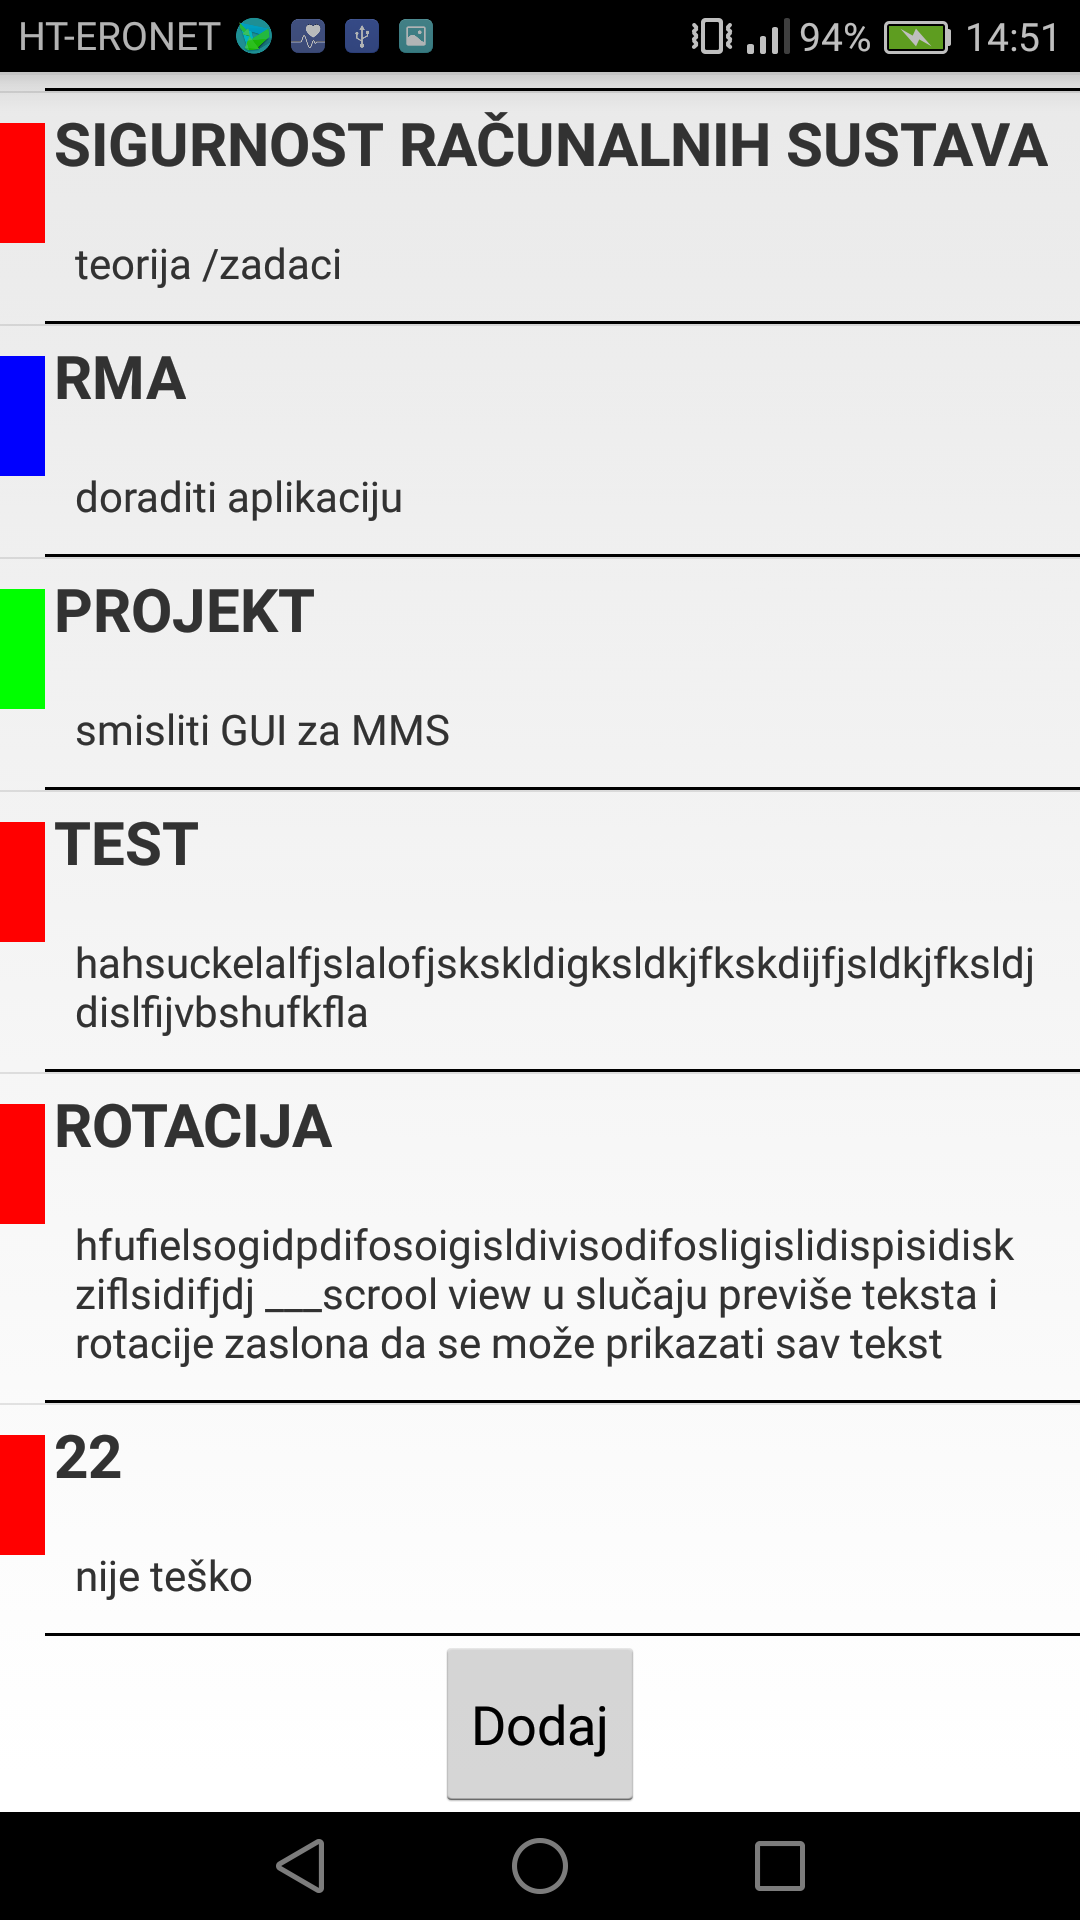
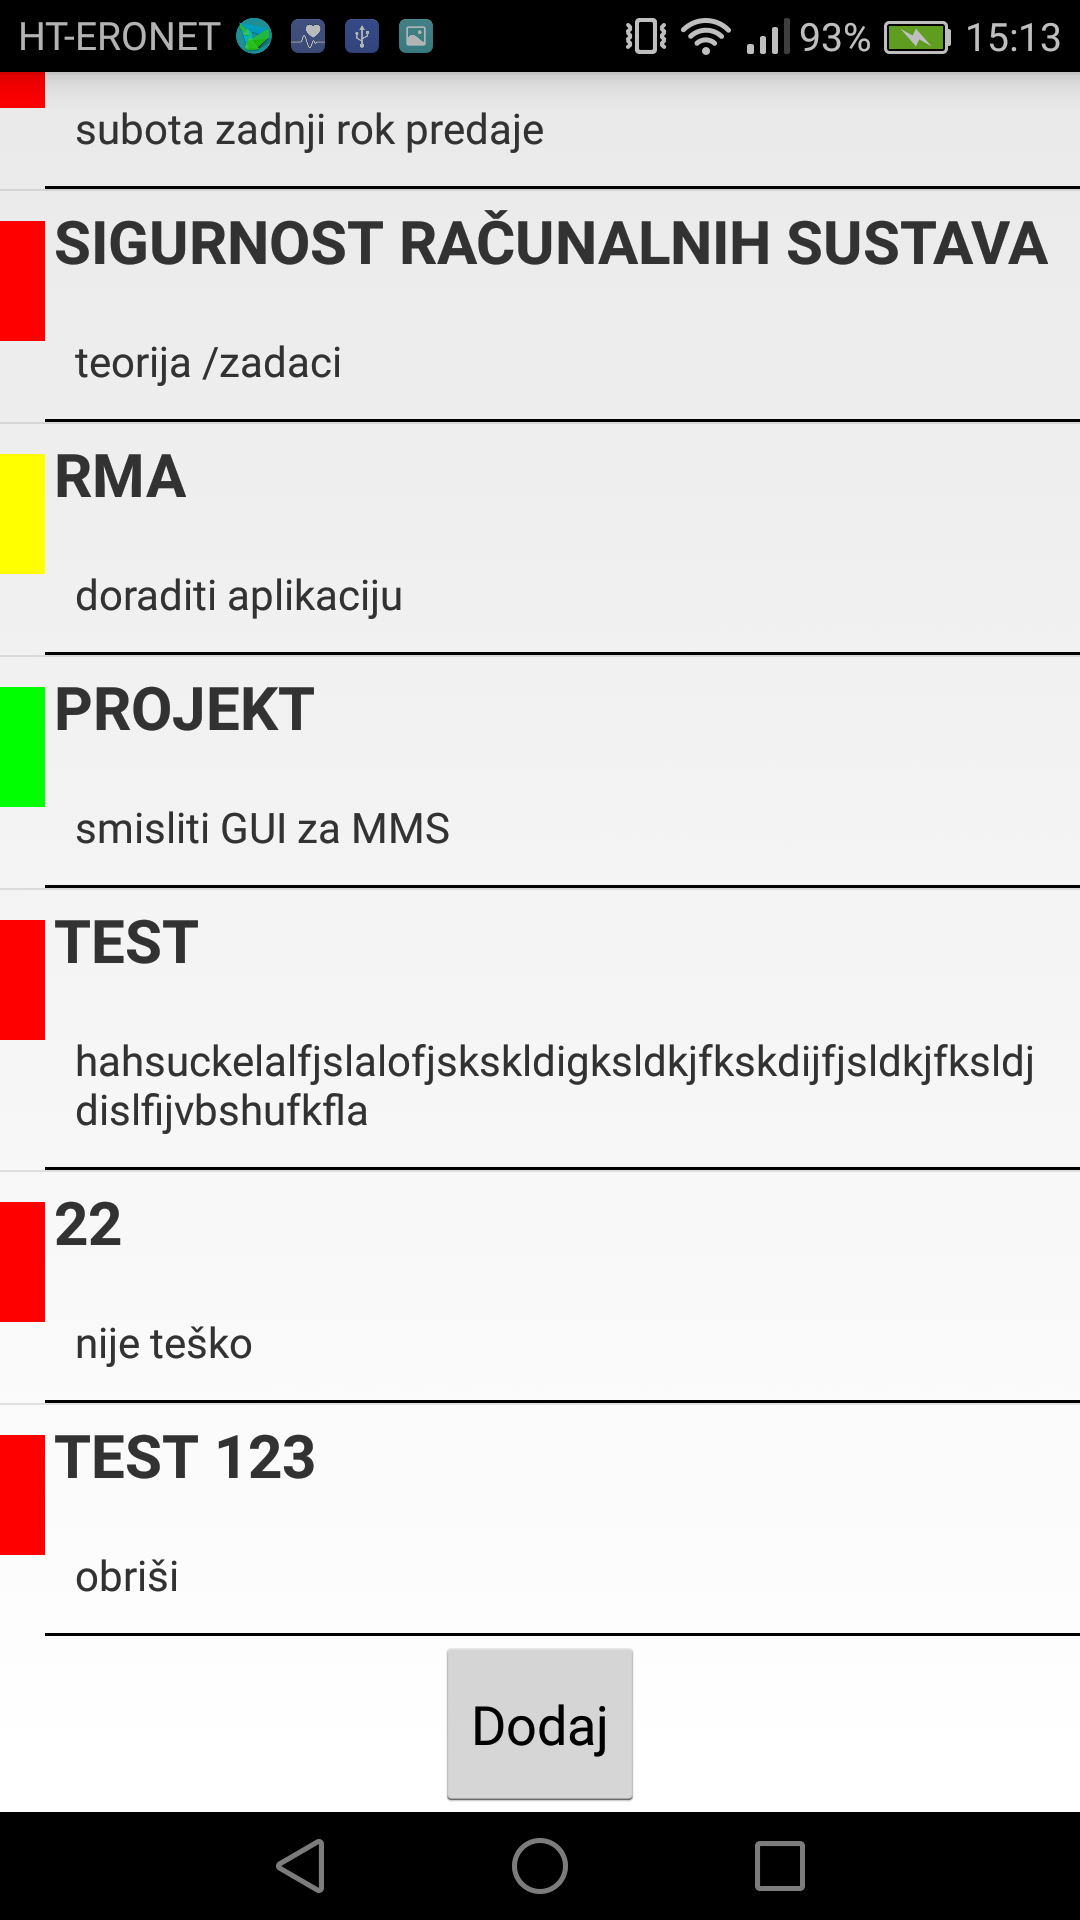
Sitneprepravke.konacnaVerzija

diff --git a/DZ3/app/src/main/java/com/example/daniel/dz3/MainActivity.java b/DZ3/app/src/main/java/com/example/daniel/dz3/MainActivity.java
@@ -13,7 +13,7 @@ import java.util.ArrayList;
 
 public class MainActivity extends Activity implements View.OnClickListener {
     ListView lvTaskList;
-    TaskAdapter mTaskAdapter;
+    TaskAdapter TaskAdapter;
     Button bDodajZadatak;
     public static final String KEY_NASLOV = "KeyTittle";
     public static final String KEY_OPIS = "KeyDescription";
@@ -31,13 +31,13 @@ public class MainActivity extends Activity implements View.OnClickListener {
     private void setUpUI() {
         bDodajZadatak = (Button) findViewById(R.id.bDodajZadatak);
         this.lvTaskList = (ListView) this.findViewById(R.id.lvTaskList);
-        this.mTaskAdapter = new TaskAdapter(this.loadTasks());
-        this.lvTaskList.setAdapter(this.mTaskAdapter);
+        this.TaskAdapter = new TaskAdapter(this.loadTasks());
+        this.lvTaskList.setAdapter(this.TaskAdapter);
         this.lvTaskList.setOnItemLongClickListener(new AdapterView.OnItemLongClickListener() {
             @Override
             public boolean onItemLongClick(AdapterView<?> parent, View view, int position, long id) {
                 Task task = (Task) lvTaskList.getItemAtPosition(position);
-                mTaskAdapter.brisiZadatak(position);
+                TaskAdapter.brisiZadatak(position);
                 TaskDBHelper.getInstance(getApplicationContext()).Delete(task);
                 return false;
             }

diff --git a/DZ3/app/src/main/java/com/example/daniel/dz3/TaskAdapter.java b/DZ3/app/src/main/java/com/example/daniel/dz3/TaskAdapter.java
@@ -53,22 +53,17 @@ class TaskAdapter extends BaseAdapter {
         if (task.getPrioritet().equals("High"))
             taskViewHolder.ivPrioritet.setBackgroundColor(Color.RED);
         if (task.getPrioritet().equals("Medium"))
-            taskViewHolder.ivPrioritet.setBackgroundColor(Color.BLUE);
+            taskViewHolder.ivPrioritet.setBackgroundColor(Color.YELLOW);
         if (task.getPrioritet().equals("Low"))
             taskViewHolder.ivPrioritet.setBackgroundColor(Color.GREEN);
 
         return convertView;
     }
 
-    public void dodajZadatak(Task task) {
-        this.Tasks.add(task);
-        this.notifyDataSetChanged();
-    }
 
     public void brisiZadatak(int position) {
         this.Tasks.remove(position);
         this.notifyDataSetChanged();
-        ;
     }
 
     public static class ViewHolder {
